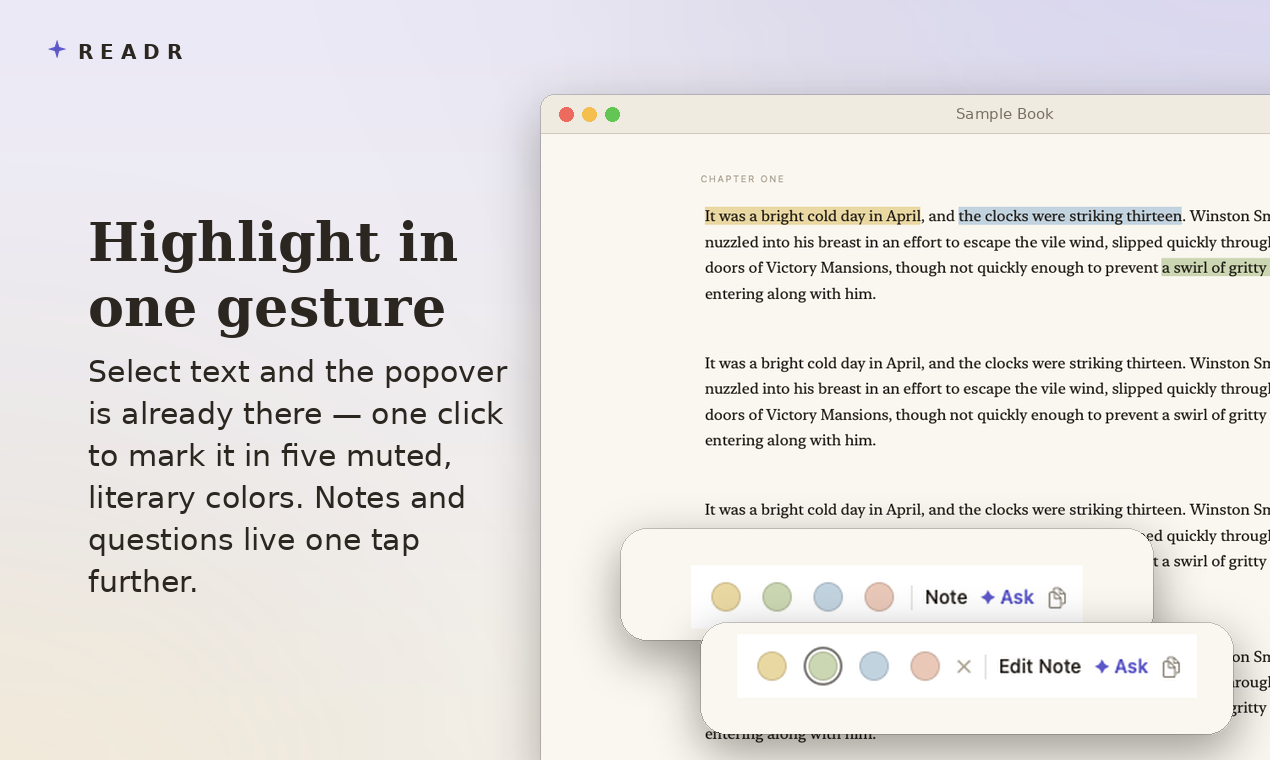
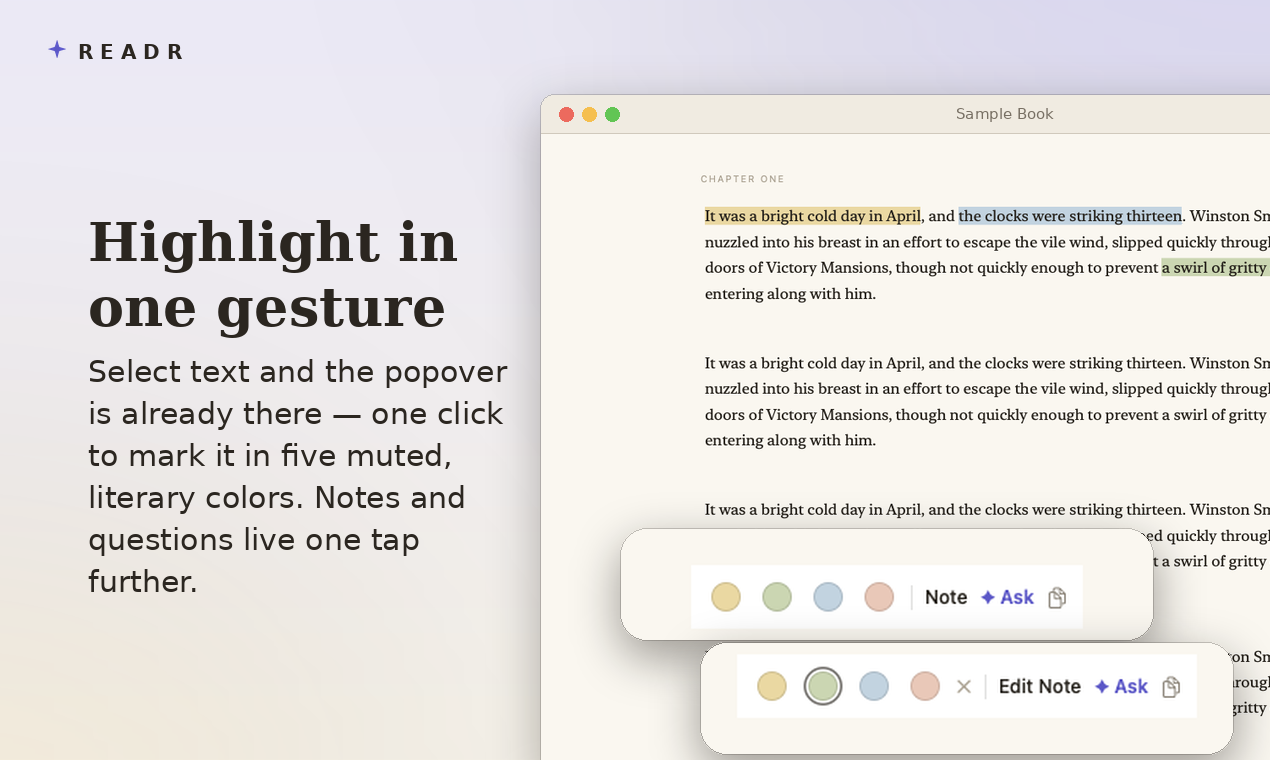
Gallery: rework slides hit by the macOS text-clipping bug; check in generator
Slide 05 rebuilt as a three-phone theme lineup (Paper/Sepia/Dark); slides 04
and 06 recomposed so clipped screenshot edges are cropped or occluded;
generate.py checked in for regeneration once fixed screenshots exist.

Claude-Session: https://claude.ai/code/session_01NoYKq8SJ8mbb1fz3QycsNo

Changed region(s): [[0.5528, 0.8171, 0.952, 0.9382], [0.5528, 0.9382, 0.9827, 1.0]]

diff --git a/launch/product-hunt/gallery/generate.py b/launch/product-hunt/gallery/generate.py
@@ -318,7 +318,7 @@ def annotate():
     bot_bb = gray.crop((0, 90, m05.width, m05.height)).getbbox()
     bars = [m05.crop((top_bb[0], top_bb[1], top_bb[2], top_bb[3])),
             m05.crop((bot_bb[0], bot_bb[1] + 90, bot_bb[2], bot_bb[3] + 90))]
-    positions = [(620, 528), (700, 622)]
+    positions = [(620, 528), (700, 642)]
     for bar, pos in zip(bars, positions):
         s = 1.55
         bar = bar.resize((int(bar.width * s), int(bar.height * s)), Image.LANCZOS)

diff --git a/launch/product-hunt/gallery/README.md b/launch/product-hunt/gallery/README.md
@@ -12,7 +12,7 @@ surfaces, muted literary highlight colors — see `docs/DESIGN.md`).
 | 2 | `02-ask-the-book.png` | Feature: Ask | **Ask the book — answers with citations.** "Select a passage or ask about the whole book. Answers are grounded in the text, and every one cites the passages it came from." + "Tap a citation to see the source passage" | 16 (iPhone Ask panel with streamed answer + source chips) |
 | 3 | `03-highlights-to-article.png` | Feature: Article studio | **Your highlights become an article.** "Every highlight streams into the Notes panel as you read. One tap composes them into a draft you can steer, edit, and export as clean Markdown." | 06 (notes panel + Compose article), 17 (composed article editor) |
 | 4 | `04-one-gesture-highlight.png` | Feature: Annotation | **Highlight in one gesture.** "Select text and the popover is already there — one click to mark it in five muted, literary colors. Notes and questions live one tap further." | m08 (macOS scroll reader with highlights), m05 (annotation popovers, extracted) |
-| 5 | `05-three-ways-to-turn-a-page.png` | Feature: Reading themes/layouts | **Three ways to turn a page.** "Scroll, single page, or a two-page spread — in Paper, Sepia & Dark." | m02 (macOS sepia two-page spread) |
+| 5 | `05-three-ways-to-turn-a-page.png` | Feature: Reading themes/layouts | **Three ways to turn a page.** "Scroll, single page, or a two-page spread — in Paper, Sepia & Dark." | 02 (iPhone paper scroll), 04 (iPhone sepia paged), 11 (iPhone dark paged), with theme captions |
 | 6 | `06-dark-mode.png` | Feature: Dark mode | **Dark mode done properly.** "Highlights become alpha washes so the text stays luminous — Mac and iPhone." | m03 (macOS dark paged reader), 11 (iPhone dark reader) |
 | 7 | `07-offline-local-llm.png` | Feature: Privacy/offline | **Fully offline with a local LLM.** "Bring Claude, ChatGPT, or an on-device model. Books, highlights, and questions never leave your device unless you choose a cloud model." + "No telemetry, no accounts — keys live in the Keychain" | 12 (iPhone AI Providers settings) |
 | 8 | `08-epub-pdf-markdown.png` | Feature: Formats/library | **Reads EPUB, PDF & Markdown.** "PDFs get the same highlights, search, and Ask as any book — no lock-in." | m07 (macOS library grid with PDF/Finished badges), 15 (iPhone PDF reader) |
@@ -23,6 +23,38 @@ surfaces, muted literary highlight colors — see `docs/DESIGN.md`).
 |------|------|------|
 | `thumbnail-240.png` | 240×240 | Product Hunt square thumbnail (from the app icon) |
 | `social-preview-1280x640.png` | 1280×640 | GitHub repo social preview (Settings → Social preview) — icon, wordmark, tagline "The open-source AI ebook reader for Mac & iPhone", feature line "Ask your books · Highlights → articles · Works offline" |
+
+## Regenerating
+
+`generate.py` (in this directory) rebuilds every asset. It reads the raw
+screenshots from the directory in `$READR_SHOTS` (see the script header for
+the expected files/sizes) and the app icon from the repo, and writes here:
+
+```sh
+python3 generate.py    # needs Pillow and the DejaVu fonts
+```
+
+## Known issue: bug-affected macOS screenshots
+
+The macOS captures m01, m02, m03 and m08 were taken while the reader had a
+text-layout bug that clips lines mid-word at the page's right edge (a fix is
+in flight in a separate PR). The current slides work around it:
+
+- **01-hero** — m01's clipped right edge is hidden behind the overlapping
+  iPhone frame (composition unchanged; the clipping was never visible here).
+- **04-one-gesture-highlight** — the m08 window is oversized and bleeds off
+  the right/bottom canvas edges, so the clipped edge and scrollbar are cropped
+  away before they become visible.
+- **05-three-ways-to-turn-a-page** — the m02 two-page spread (where the bug
+  was most legible) was replaced entirely with three framed iPhone shots
+  (Paper / Sepia / Dark).
+- **06-dark-mode** — the iPhone frame was moved left to occlude m03's clipped
+  right edge.
+
+Once the fix lands and CI produces fresh macOS shots, slides 01, 04 and 06
+should be regenerated (drop the shots into `$READR_SHOTS` and re-run
+`generate.py`; the workaround crops/overlaps can then be relaxed), and slide
+05 can optionally get its two-page-spread mac window back.
 
 ## Notes
 